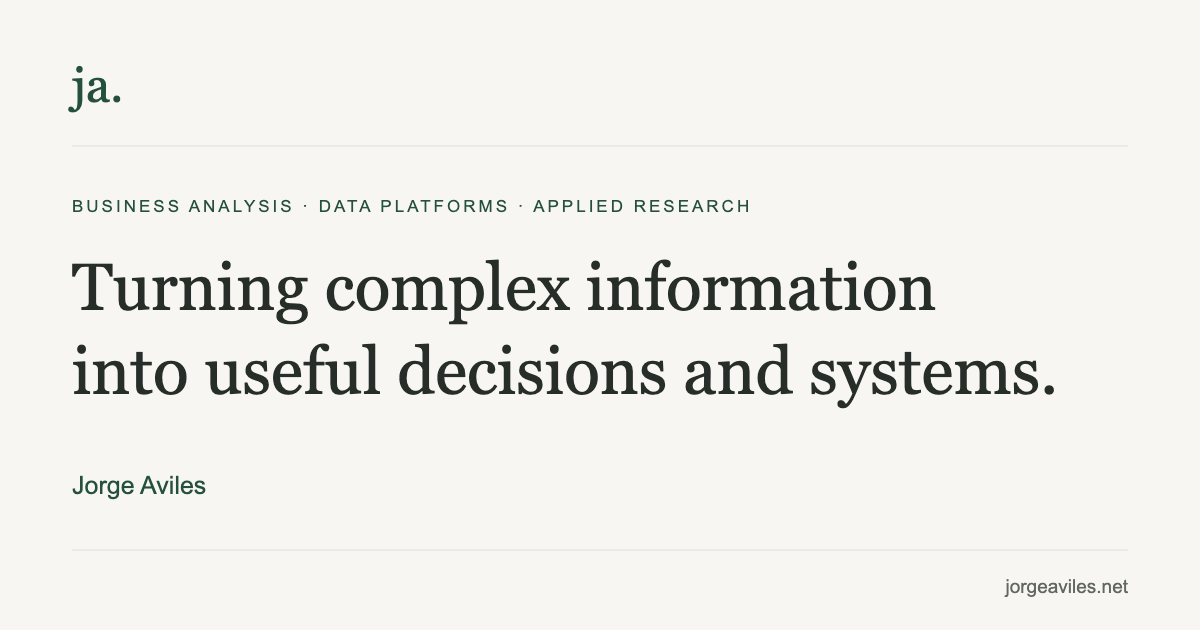
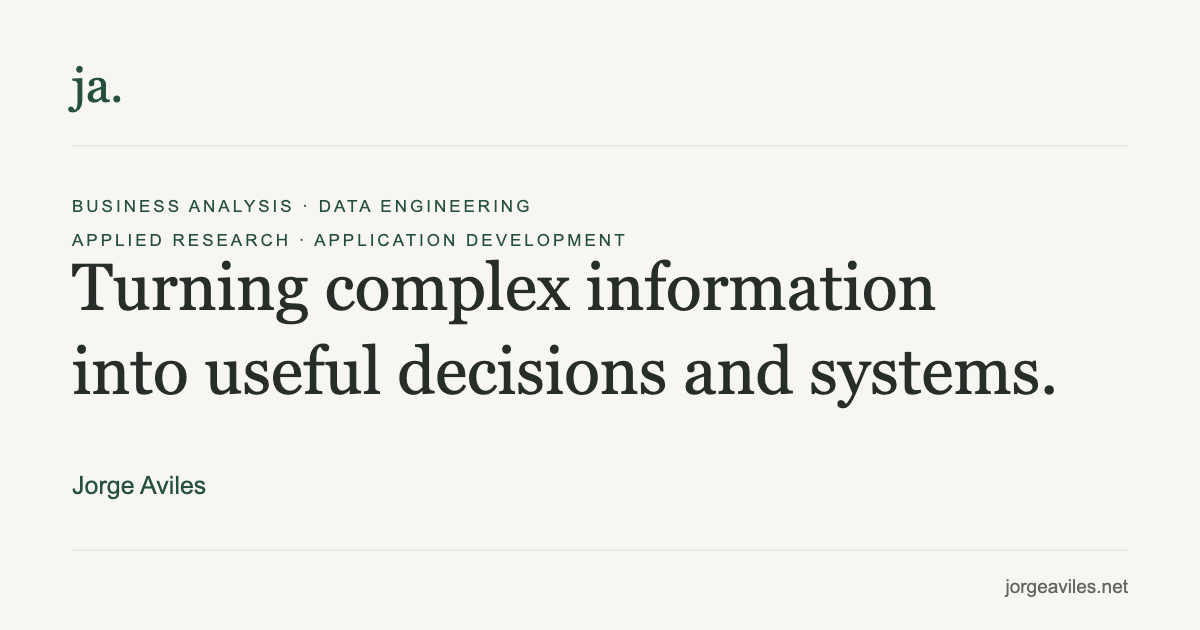
Align portfolio positioning and technical case-study order (#10)

Changed region(s): [[0.0617, 0.3016, 0.6167, 0.3921]]

diff --git a/tests/site.spec.ts b/tests/site.spec.ts
@@ -589,7 +589,7 @@ test('approved case study stays consistent across listings and renders a static 
   }
   await expect(
     page.getByText(
-      'I am the sole hands-on developer across the analytical notebooks, warehouse, and Audit Portal.',
+      'I am the sole hands-on developer across the analytical notebooks, data platform, and Audit Portal.',
       { exact: false },
     ),
   ).toBeVisible();
@@ -687,4 +687,94 @@ test('data platform case study shares metadata and explains a static fictional d
     path: screenshot,
     contentType: 'image/png',
   });
+});
+
+test('recent technical work leads both listings and related navigation', async ({
+  page,
+}) => {
+  const ordered = [
+    '/work/analytical-data-platforms/',
+    '/work/analytical-applications/',
+    '/work/applied-predictive-research/',
+  ];
+  for (const route of ['/', '/work/']) {
+    await page.goto(route);
+    expect(
+      await page
+        .locator('.work-row')
+        .evaluateAll((links) => links.map((link) => link.getAttribute('href'))),
+    ).toEqual(ordered);
+  }
+  await page.goto('/work/applied-predictive-research/');
+  expect(
+    await page
+      .locator('.related-work a')
+      .evaluateAll((links) => links.map((link) => link.getAttribute('href'))),
+  ).toEqual(ordered.slice(0, 2));
+  await expect(page.locator('article')).toContainText(
+    'Asthana is the paper’s author.',
+  );
+});
+
+test('page metadata, canonical URLs, and identity remain coherent without third-party requests', async ({
+  page,
+  request,
+}) => {
+  const external: string[] = [];
+  page.on('request', (r) => {
+    if (!new URL(r.url()).hostname.match(/^(127\.0\.0\.1|localhost)$/))
+      external.push(r.url());
+  });
+  for (const route of routes) {
+    await page.goto(route.path);
+    const description = await page
+      .locator('meta[name="description"]')
+      .getAttribute('content');
+    expect(description?.length).toBeGreaterThan(25);
+    await expect(
+      page.locator('meta[property="og:description"]'),
+    ).toHaveAttribute('content', description!);
+    await expect(page.locator('meta[property="og:title"]')).toHaveAttribute(
+      'content',
+      await page.title(),
+    );
+    const canonical = `https://jorgeaviles.net${route.path}`;
+    await expect(page.locator('link[rel="canonical"]')).toHaveAttribute(
+      'href',
+      canonical,
+    );
+    await expect(page.locator('meta[property="og:url"]')).toHaveAttribute(
+      'content',
+      canonical,
+    );
+    await expect(page.locator('meta[property="og:image"]')).toHaveAttribute(
+      'content',
+      'https://jorgeaviles.net/social-preview.png',
+    );
+    const graph = JSON.parse(
+      await page.locator('script[type="application/ld+json"]').innerText(),
+    )['@graph'];
+    expect(graph[0].sameAs).toEqual([
+      'https://github.com/jorgeaviles',
+      'https://www.linkedin.com/in/jraviles/',
+    ]);
+    expect(graph[1].description).toContain('application development');
+    if (route.path.startsWith('/work/') && route.path !== '/work/') {
+      await expect(page).toHaveTitle(`${route.heading} — Jorge Aviles`);
+    }
+  }
+  await page.goto('/lab/');
+  await page
+    .getByRole('navigation', { name: 'Lab lessons' })
+    .scrollIntoViewIfNeeded();
+  await page.waitForFunction(() =>
+    Array.from(document.querySelectorAll('astro-island')).every(
+      (island) => !island.hasAttribute('ssr'),
+    ),
+  );
+  expect(external).toEqual([]);
+  const sitemap = await request.get('/sitemap-0.xml');
+  const xml = await sitemap.text();
+  for (const route of routes)
+    expect(xml).toContain(`https://jorgeaviles.net${route.path}`);
 });

diff --git a/src/config/site.ts b/src/config/site.ts
@@ -3,7 +3,7 @@ export const site = {
   url: 'https://jorgeaviles.net',
   email: 'jorge@jorgeaviles.net',
   description:
-    'Business analysis, data platforms, and applied research. Turning complex information into useful decisions and systems.',
+    'Business analysis, data engineering, applied research, and application development. Connecting complex information with practical decisions and useful systems.',
   headline: 'Turning complex information into useful decisions and systems.',
   github: 'https://github.com/jorgeaviles',
   linkedin: 'https://www.linkedin.com/in/jraviles/',
